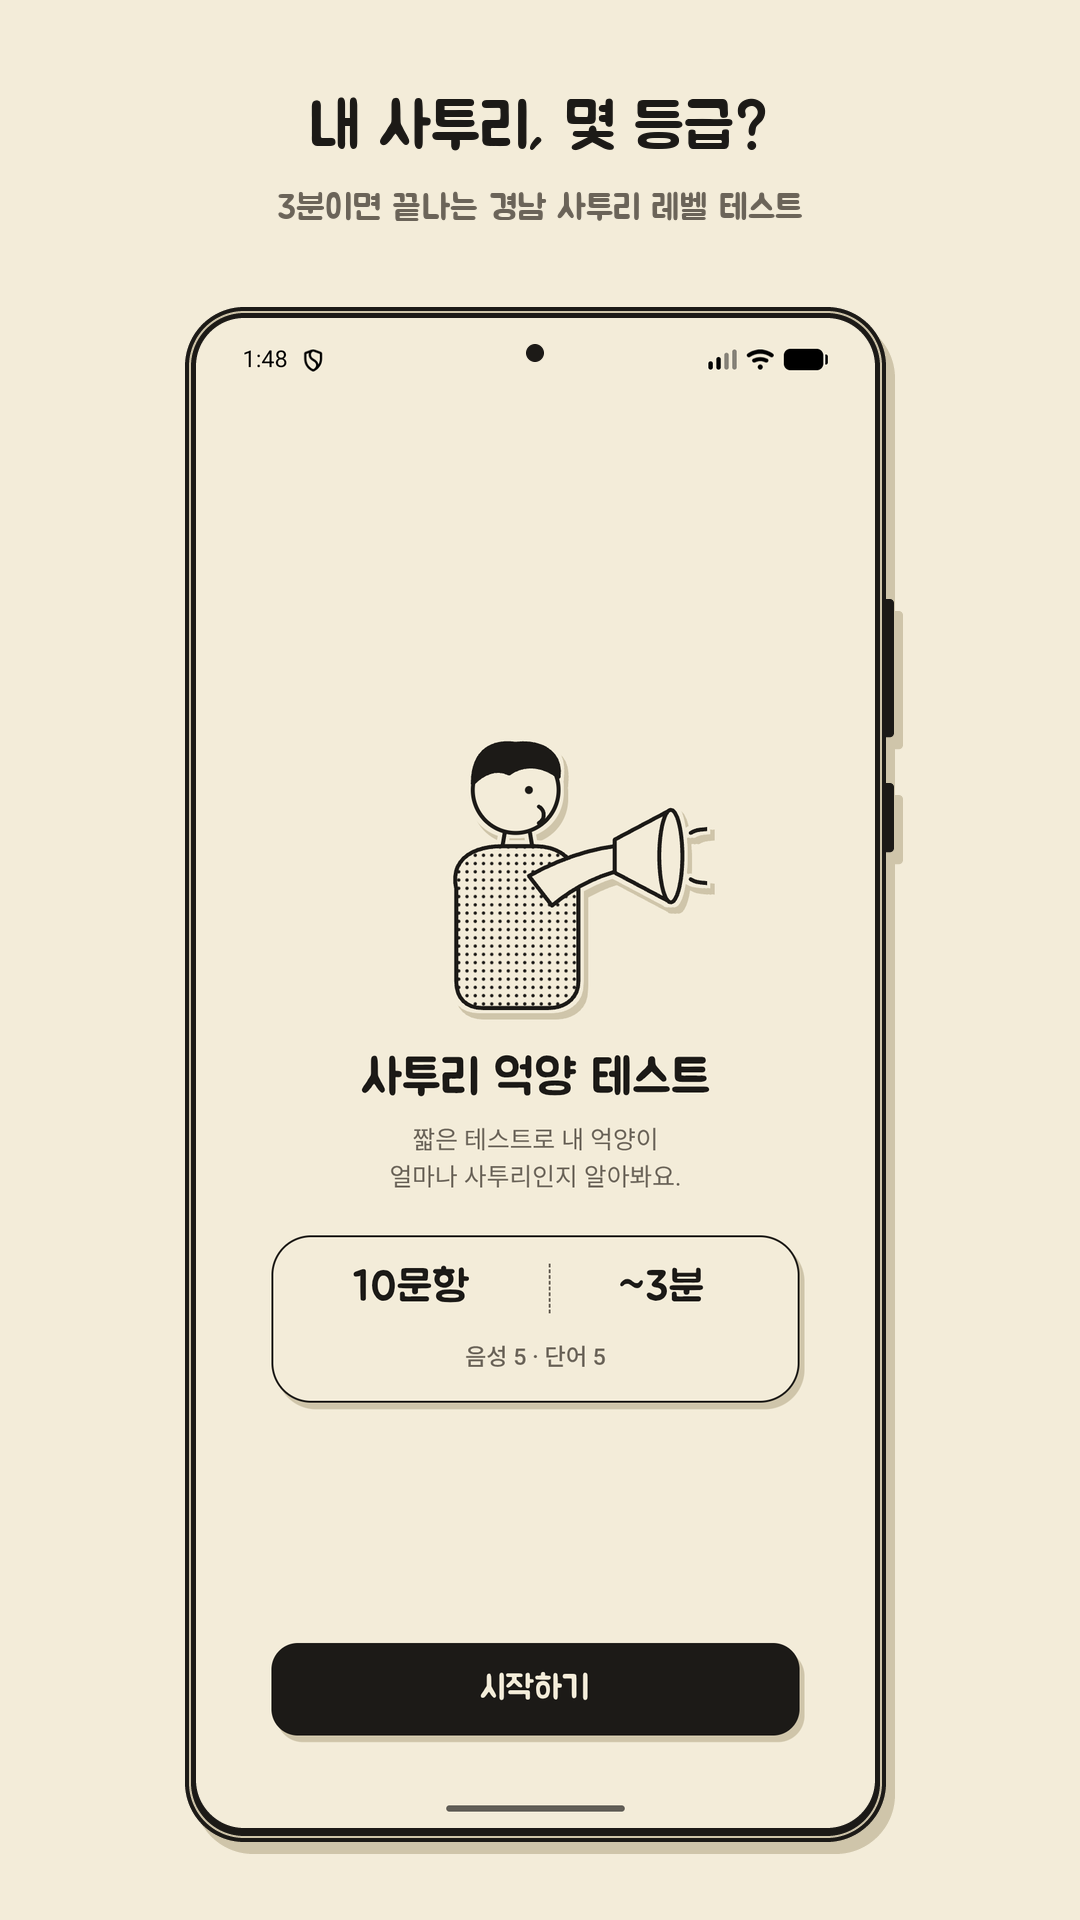
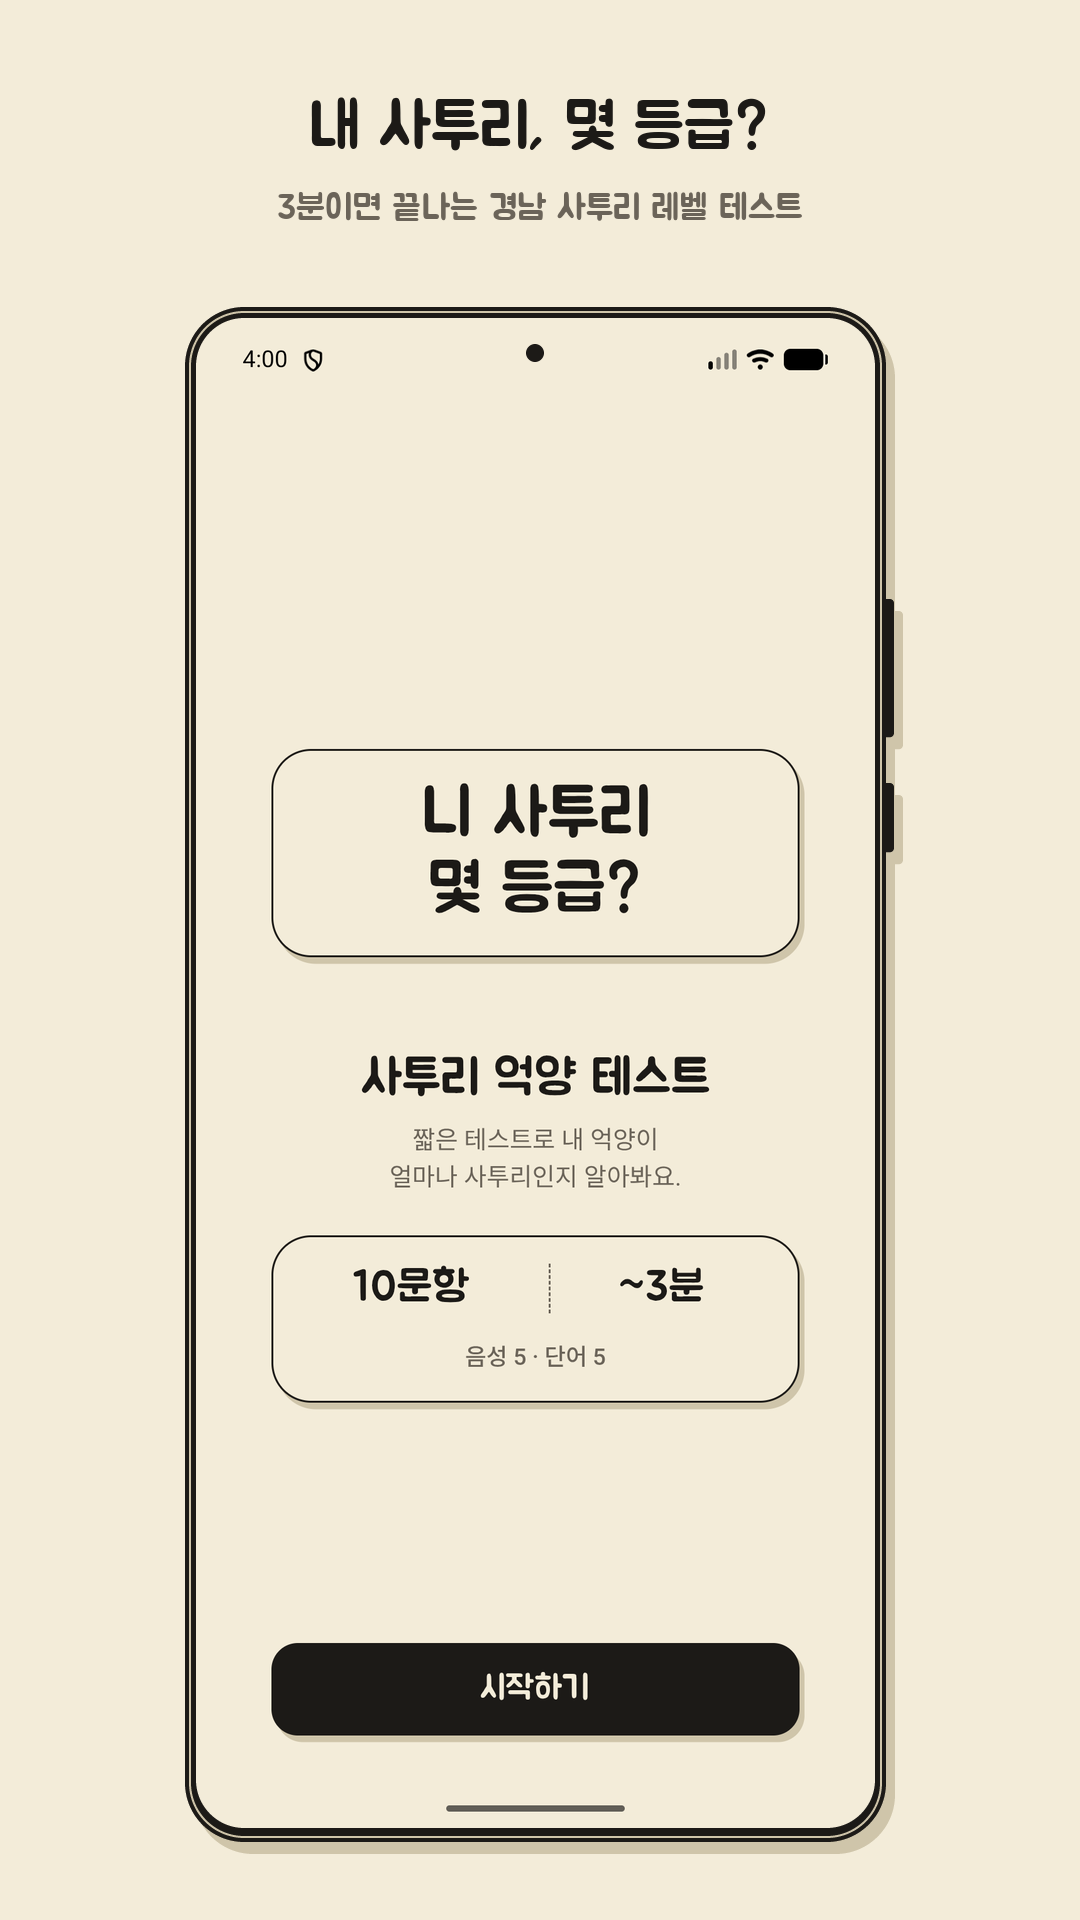
KAN-178 인트로·분석 대기 화면 일러스트를 텍스트 히어로로 - "니 사투리 몇 등급?" / "분석 중입니다"
- web/src/ui/TextHero.tsx + components.css: Jua 40 잉크, 크림 종이 조각(테두리·오프셋 그림자). IntroHero·WaitingHero SVG 제거
- 스토어 스크린샷 인트로 원본(Android·iOS) 재촬영, 프레임 재생성

Claude-Session: https://claude.ai/code/session_01Nud2Q8pYYmbEKkf6aeyY5Q

Changed region(s): [[0.3667, 0.375, 0.6722, 0.5312], [0.7028, 0.4062, 0.7639, 0.5], [0.2444, 0.4688, 0.275, 0.5]]

diff --git a/web/src/ui/components.css b/web/src/ui/components.css
@@ -283,10 +283,13 @@
 }
 
 /*
- * 화면을 여는 일러스트 자리 (KAN-161 3단계). 그림 자체는 `ui/illustrations/`의 SVG가 갖고
+ * 화면을 여는 히어로 자리 (KAN-161 3단계). 안에 서는 것이 SVG든 그림 파일이든 글자든
  * 여기서 하는 일은 높이를 잡아 두는 것뿐이다 — 시안이 화면마다 다른 높이(192·176·168)를
- * 주므로 값은 화면이 변수로 넘긴다. 높이를 미리 잡아 두면 그림이 그려지기 전후로 아래
+ * 주므로 값은 화면이 변수로 넘긴다. 높이를 미리 잡아 두면 안엣것이 그려지기 전후로 아래
  * 요소가 오르내리지 않는다.
+ *
+ * 인트로·대기 화면은 그림 대신 `.text-hero`가 든다 (KAN-178). 슬롯 높이를 건드리지 않은
+ * 것은 의도다 — 글자 조각이 그림보다 낮아도 아래 제목·카드는 있던 자리에 그대로 남는다.
  */
 .illustration {
   display: flex;
@@ -301,6 +304,35 @@
 
 .illustration--waiting {
   height: 176px;
+}
+
+/*
+ * 그림 자리에 서는 글자 한 줄 (KAN-178). 종이 조각 한 장이다 — 테두리 1.5px·크림 면·오프셋
+ * 그림자는 대사 카드(`.prompt-card`)와 같은 값을 쓴다. 이 화면에서 새로 만든 모양이 아니라
+ * 이미 있는 종이의 두께를 그대로 빌려 와야 한 화면에 종이가 두 종류로 보이지 않는다.
+ *
+ * Jua 40(`--text-display`)은 팔레트에서 가장 큰 글자다. 바로 아래 제목이 30·26이라
+ * 이보다 작으면 히어로가 아니라 제목이 둘인 화면이 된다.
+ *
+ * `keep-all`은 한국어에서 필수다 — 기본값이면 "등급?"이 낱말 가운데서 잘린다. `balance`는
+ * 두 줄로 넘어갈 때 줄 길이를 맞춘다("니 사투리 / 몇 등급?"). 지원하지 않는 브라우저는
+ * 평범하게 흘려 담을 뿐이라 깨지지 않는다.
+ */
+.text-hero {
+  margin: 0;
+  padding: var(--space-4) var(--space-6);
+  border: 1.5px solid var(--color-border);
+  border-radius: var(--radius-xl);
+  background: var(--color-card);
+  box-shadow: var(--shadow-prompt);
+  font-family: var(--font-display);
+  font-size: var(--text-display);
+  font-weight: var(--weight-normal);
+  line-height: var(--leading-tight);
+  color: var(--color-foreground);
+  text-align: center;
+  word-break: keep-all;
+  text-wrap: balance;
 }
 
 /*

diff --git a/web/src/analysis/AnalysisWaitingScreen.tsx b/web/src/analysis/AnalysisWaitingScreen.tsx
@@ -26,7 +26,7 @@
 import { Fragment, useEffect, useRef } from 'react'
 import { Button, StatusBlock } from '../ui'
 import { CheckSmallIcon } from '../ui/icons'
-import { WaitingHero } from '../ui/illustrations/WaitingHero'
+import { TextHero } from '../ui/TextHero'
 import { ANALYSIS_STAGES, analysisStage } from './analysisStage'
 import type { VoiceItem } from '../progress/testDefinition'
 import type { FetchLike } from '../progress/fetchTestDefinition'
@@ -241,13 +241,22 @@ export function AnalysisWaitingScreen({
       <div className={waiting ? 'analysis-body analysis-body--centered' : 'analysis-body'}>
         {waiting && (
           <div className="analysis-waiting">
+            {/*
+              계단 일러스트를 걷어내고 글자를 세웠다 (KAN-178). 그림 자리를 그대로 쓰므로
+              아래 제목·단계 목록은 있던 자리에 남는다.
+            */}
             <div className="illustration illustration--waiting">
-              <WaitingHero />
+              <TextHero>분석 중입니다</TextHero>
             </div>
             {/*
               대기 문구가 StatusBlock의 본문에서 제목(h1)으로 올라왔다. 이 화면에는 다른 제목이
               없어 이 문장이 곧 화면의 이름이고, 시안도 히어로 아래 가장 큰 글자로 둔다.
               문구 자체는 그대로라 대기 화면을 기다리는 테스트가 그대로 통과한다.
+
+              히어로가 생긴 뒤에도 이 제목을 남긴 이유는 둘이 다른 말을 하기 때문이다:
+              히어로는 "분석 중"이라는 상태 하나를 붙박이로 말하고, 이 줄은 그 안에서
+              무엇이 진행 중인지(만드는 중 / 다 되어 넘어가는 중)를 갈아 끼운다. 히어로가
+              `aria-hidden`이라 스크린 리더에는 이 제목 한 줄만 화면 이름으로 들어간다.
             */}
             <h1 className="type-headline">
               {status.kind === 'READY' ? '결과 화면으로 이동합니다' : '결과를 만들고 있어요'}

diff --git a/web/src/intro/IntroScreen.tsx b/web/src/intro/IntroScreen.tsx
@@ -3,7 +3,7 @@ import { requestMicrophonePermission, type MicPermission } from '../audio/microp
 import { detectStorePlatform } from '../audio/storeLink'
 import { requestMicPermission } from '../bridge/bridge'
 import { Button } from '../ui'
-import { IntroHero } from '../ui/illustrations/IntroHero'
+import { TextHero } from '../ui/TextHero'
 import {
   ESTIMATED_MINUTES,
   START_FAILED_MESSAGE,
@@ -109,12 +109,12 @@ export function IntroScreen({
     <main className="screen">
       <div className="screen__body">
         {/*
-          이모지 히어로(🎯⭐✨)를 오려 낸 종이 일러스트로 갈았다 (KAN-161 3단계). 이모지는
-          시스템이 자기 색으로 그려서 잉크 한 색 화면에 유일한 색조로 남았고, 기기마다 다른
-          그림이 나왔다 — 그림을 우리가 그리면 둘 다 사라진다.
+          종이 일러스트(확성기를 든 사람)를 걷어내고 글자를 세웠다 (KAN-178). 그림은 이 앱이
+          무엇을 하는 곳인지 말하지 않았다 — 첫 화면에서 사용자가 알아야 할 것은 "여기서
+          내 사투리 등급이 나온다"이고, 그건 그리는 것보다 적는 편이 빠르다.
         */}
         <div className="illustration illustration--intro">
-          <IntroHero />
+          <TextHero>니 사투리 몇 등급?</TextHero>
         </div>
 
         <div style={{ display: 'flex', flexDirection: 'column', gap: 'var(--space-2)' }}>

diff --git a/web/src/ui/TextHero.tsx b/web/src/ui/TextHero.tsx
@@ -1,0 +1,27 @@
+/**
+ * 텍스트 히어로 — 그림 대신 서는 한 마디 (KAN-178).
+ *
+ * 인트로·분석 대기 화면을 열던 종이 일러스트(`illustrations/IntroHero`·`WaitingHero`)를
+ * 걷어낸 자리다. 오려 낸 사람 그림은 예쁘긴 해도 화면이 무엇을 하는 곳인지는 말하지
+ * 않았고, 스토어 스크린샷처럼 축소된 자리에서는 선이 뭉개져 무엇을 그린 것인지도 읽히지
+ * 않았다 — 같은 자리에 큰 글자 한 줄을 세우면 화면을 열자마자 문장이 먼저 온다.
+ *
+ * `aria-hidden`이 기본인 이유는 IntroHero와 같다: 옆에 있는 h1이 이미 화면 이름을 말한다.
+ * 그림이든 글자든 장식에 라벨이 붙으면 스크린 리더가 같은 화면을 두 번 소개한다.
+ */
+
+import type { ReactNode } from 'react'
+
+export interface TextHeroProps {
+  children: ReactNode
+  /** 이 문구를 대신 읽어 줄 제목이 옆에 없을 때만 false로 준다 */
+  'aria-hidden'?: boolean
+}
+
+export function TextHero({ children, 'aria-hidden': ariaHidden = true }: TextHeroProps) {
+  return (
+    <p className="text-hero" aria-hidden={ariaHidden}>
+      {children}
+    </p>
+  )
+}

diff --git a/web/src/analysis/AnalysisWaitingScreen.test.tsx b/web/src/analysis/AnalysisWaitingScreen.test.tsx
@@ -524,3 +524,15 @@ describe('일시적 오류', () => {
     expect(screen.getByText('결과를 만들고 있어요')).toBeInTheDocument()
   })
 })
+
+describe('텍스트 히어로 (KAN-178)', () => {
+  it('그림 대신 "분석 중입니다"가 서고, 진행 상태를 말하는 제목은 그대로 남는다', async () => {
+    await renderScreen({
+      fetchImpl: fetchFor({ analyses: () => jsonResponse(200, statusesBody(Array(5).fill('PROCESSING'))) }),
+    })
+
+    expect(screen.getByText('분석 중입니다')).toBeInTheDocument()
+    // 히어로는 "분석 중" 한 상태를 붙박이로 말하고, 제목은 그 안에서 무엇이 진행 중인지를 말한다
+    expect(screen.getByRole('heading', { level: 1, name: '결과를 만들고 있어요' })).toBeInTheDocument()
+  })
+})

diff --git a/web/src/intro/IntroScreen.test.tsx b/web/src/intro/IntroScreen.test.tsx
@@ -124,3 +124,13 @@ describe('IntroScreen — 마이크 게이트 (KAN-56)', () => {
     expect(screen.getByRole('button', { name: '시작하기' })).toBeInTheDocument()
   })
 })
+
+describe('IntroScreen — 텍스트 히어로 (KAN-178)', () => {
+  it('그림 대신 "니 사투리 몇 등급?"이 서고, 제목은 그대로 남는다', () => {
+    render(<IntroScreen requestWebPermission={permissionStub('granted')} />)
+
+    expect(screen.getByText('니 사투리 몇 등급?')).toBeInTheDocument()
+    // 히어로는 장식이라 제목을 대신하지 않는다 — 화면 이름은 여전히 h1이 말한다
+    expect(screen.getByRole('heading', { level: 1, name: '사투리 억양 테스트' })).toBeInTheDocument()
+  })
+})

diff --git a/docs/wiki/design-tokens.md b/docs/wiki/design-tokens.md
@@ -513,6 +513,24 @@ KAN-148의 AC "텍스트 대비 4.5:1"은 이제 예외 없이 지켜진다.
 결과 화면의 등급별 캐릭터(KAN-162)는 SVG가 아니라 래스터 WebP다 — 정본·생성·파생 규칙은
 `character-assets.md`.
 
+### 텍스트 히어로
+
+화면을 여는 자리에 그림 대신 서는 글자 한 줄이다 (`ui/TextHero.tsx`, `.text-hero`). 인트로
+(`니 사투리 몇 등급?`)와 분석 대기 화면(`분석 중입니다`)이 쓴다 — KAN-178에서 두 화면의 종이
+일러스트를 걷어낸 자리다. 스토어 캡처 크기로 줄면 오려 낸 선이 뭉개져 무엇을 그린 것인지
+읽히지 않았고, 읽히더라도 앱이 무엇을 하는 곳인지는 말하지 않았다.
+
+모양은 대사 카드(`.prompt-card`)에서 그대로 빌린다 — 1.5px 잉크 테두리, 크림 면, `radius-xl`,
+`shadow-prompt`. 한 화면에 종이가 두 종류로 보이지 않으려면 두께와 그늘이 같아야 한다. 글자는
+`font-display` `text-display`(40) 400이다: 바로 아래 제목이 30·26이라 이보다 작으면 히어로가
+아니라 제목이 둘인 화면이 된다.
+
+기본값이 `aria-hidden`인 이유는 옆에 있는 h1이 이미 화면 이름을 말하기 때문이다. 장식에 라벨을
+붙이면 스크린 리더가 같은 화면을 두 번 소개한다.
+
+바깥 슬롯(`.illustration--intro` 192 · `--waiting` 176)의 높이는 건드리지 않았다. 글자 조각이
+그림보다 낮아도 아래 제목·카드는 있던 자리에 그대로 남는다.
+
 ## 9. 접근성 최소선 검증
 
 | 항목 | 어떻게 보장하나 |

diff --git a/docs/wiki/app-icon-assets.md b/docs/wiki/app-icon-assets.md
@@ -220,6 +220,7 @@ xcrun simctl io booted screenshot assets/screenshots/raw/ios/01-intro.png
 - **결과 화면 등급 통일** — Android·iOS 결과 캡처가 서로 다른 등급이면 스토어에서 같은 앱으로 안 읽혀, iOS 쪽을 다시 찍어 둘 다 명예주민으로 맞췄다.
 - **Android 상태바·내비게이션 바는 자르지 않는다** — Play가 허용하고, 자르기 시작하면 기기마다 기준이 갈린다.
 - **iOS 캡처의 서체를 Android와 맞췄다** (2026-09-03) — 녹음 캡처의 대사 "밥 뭇나?"와 타이머만 iOS가 시스템 서체였다. 두 캡처가 스토어에 나란히 서면 같은 앱으로 안 읽히는 자리라 Jua를 번들하고(`ios-port.md` §3) `raw/ios/02-recording.png`를 다시 찍었다. 나머지 셋은 웹 화면이라 처음부터 Jua였다.
+- **인트로·분석 대기 화면의 일러스트를 텍스트 히어로로 갈았다** (2026-09-03) — 오려 낸 종이 그림(확성기 든 사람·계단)이 스토어 캡처 크기로 줄면 선이 뭉개져 무엇을 그린 것인지 읽히지 않았고, 읽히더라도 앱이 무엇을 하는 곳인지는 말하지 않았다. 같은 자리에 Jua 40 잉크 한 줄을 세운다 — 인트로는 `니 사투리 몇 등급?`, 대기 화면은 `분석 중입니다`. 슬롯 높이(192·176)는 그대로라 아래 요소는 움직이지 않고, `raw/{android,ios}/01-intro.png`를 다시 찍어 프레임을 재생성했다.
 
 ## 7. 이월
 
